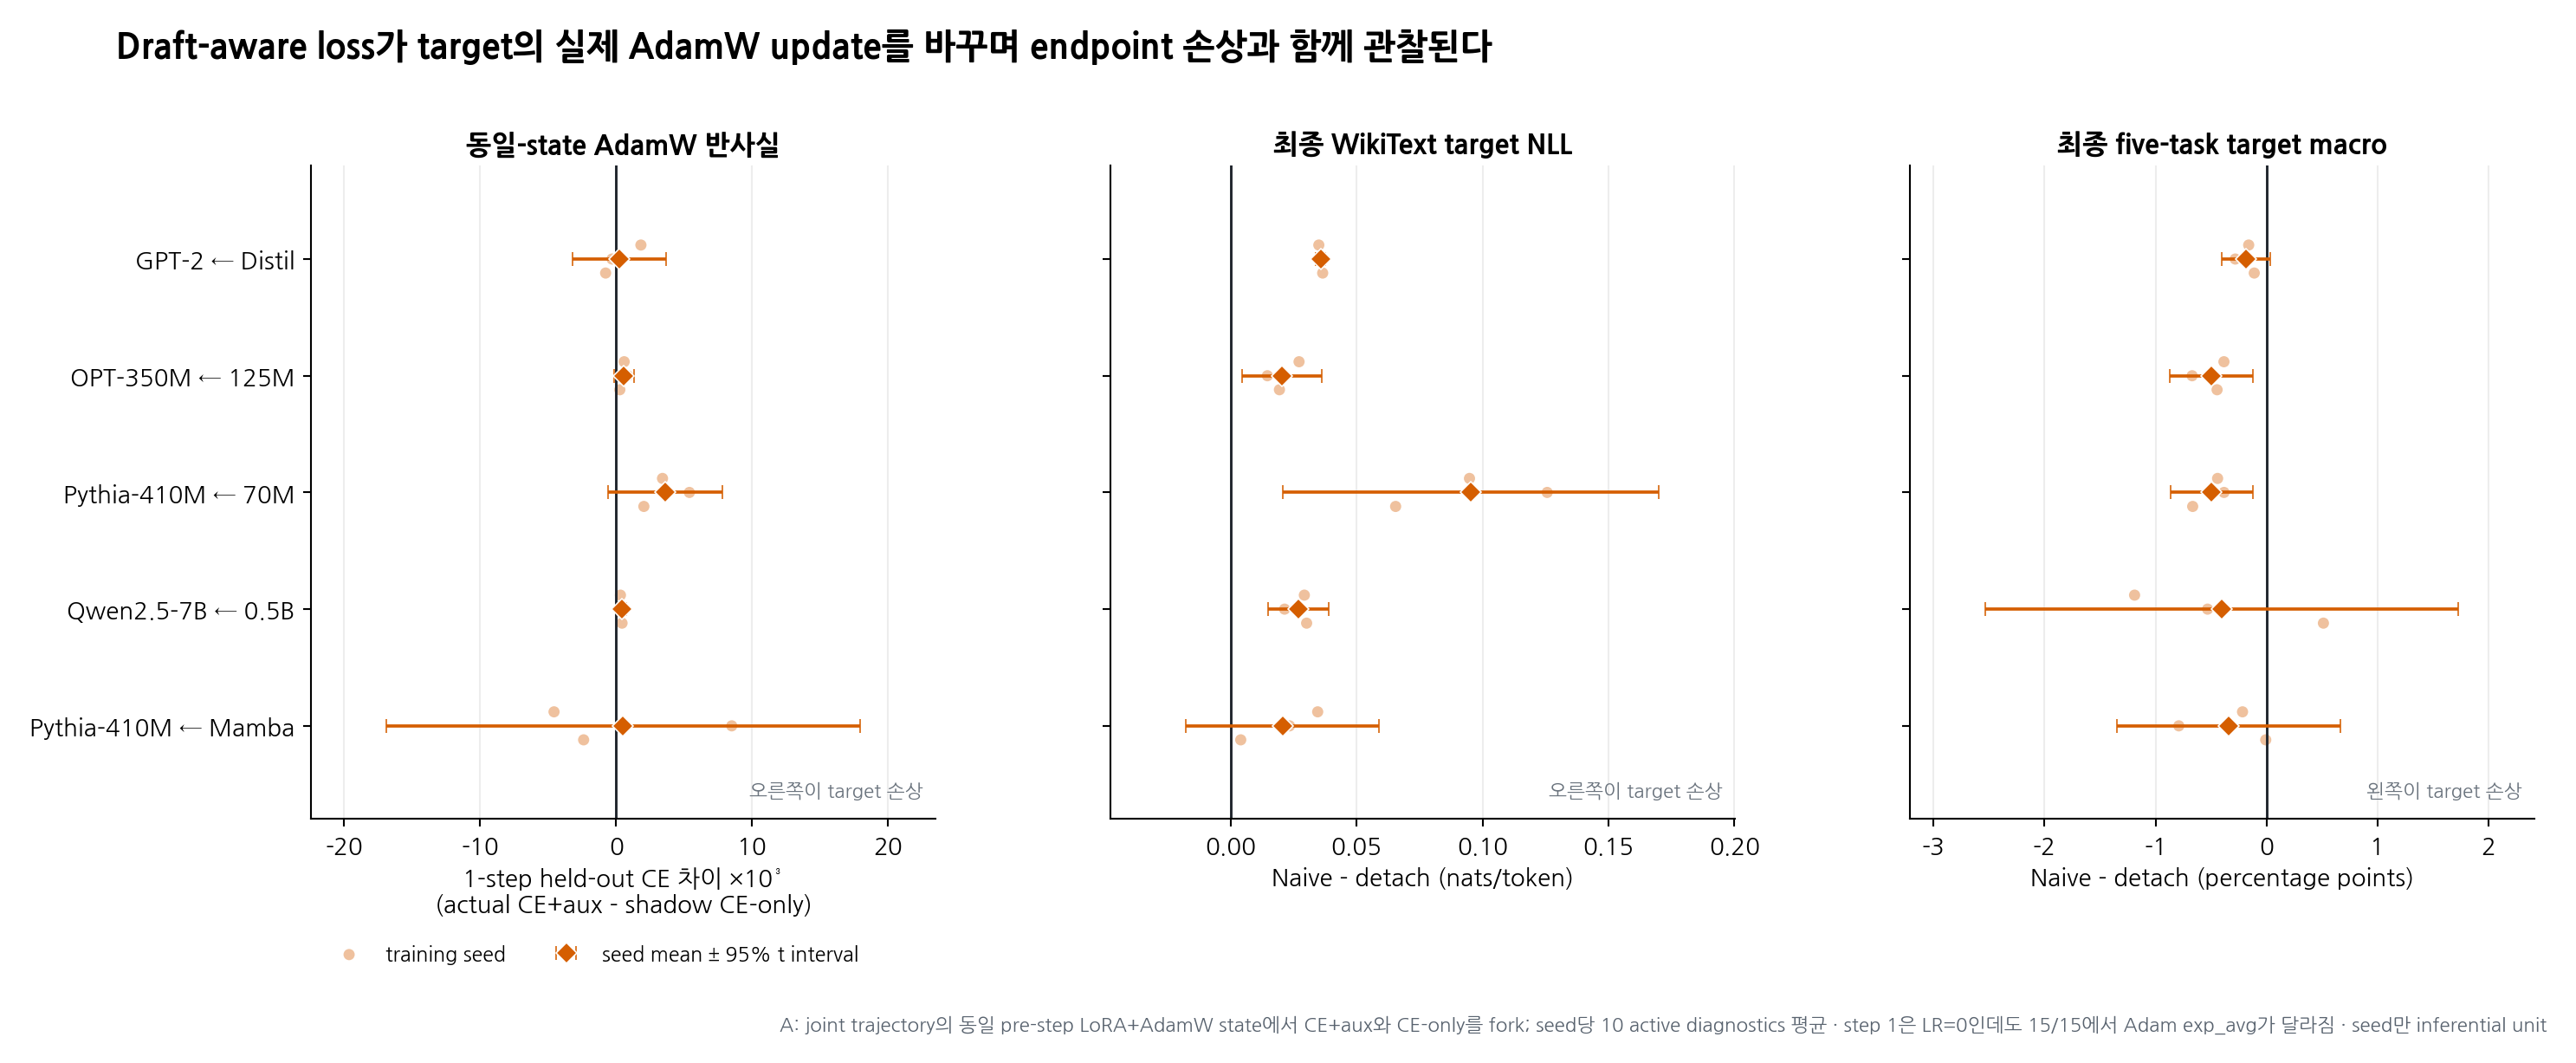
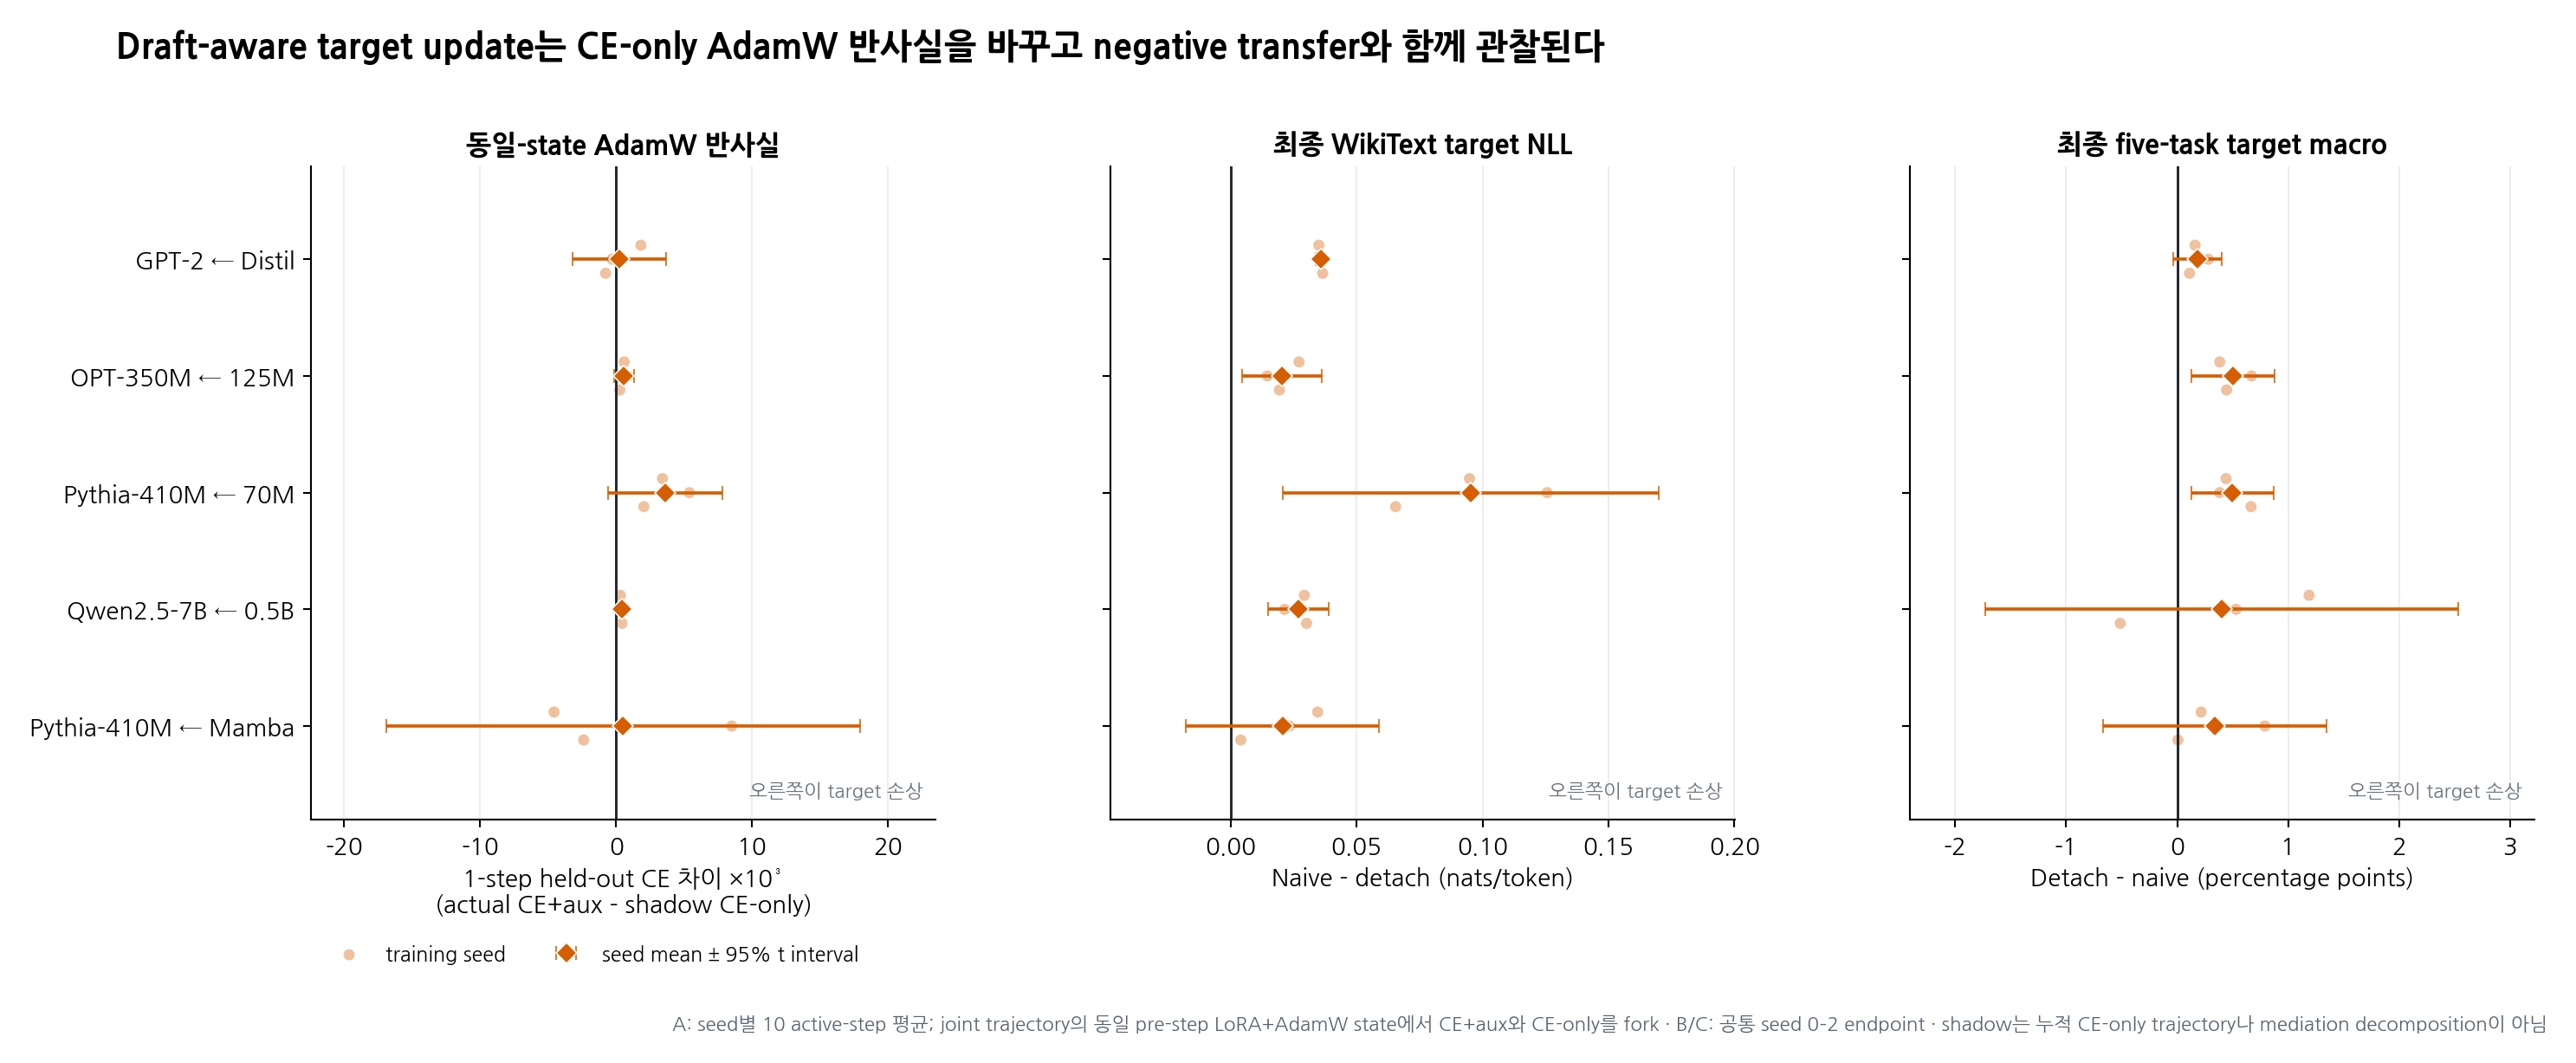
Lead report with full-seed motivation evidence

diff --git a/index.html b/index.html
@@ -3,19 +3,19 @@
 <head>
   <meta charset="utf-8">
   <meta name="viewport" content="width=device-width, initial-scale=1">
-  <meta name="description" content="독립 pretrained AR target과 drafter의 bidirectional joint training에서 draft-aware loss가 target update와 AdamW state를 deflect하는 현상을 총 384개 training run(그중 same-state shadow 15개), 63개 target checkpoint의 full downstream panel로 분석한 한국어 보고서.">
+  <meta name="description" content="독립 pretrained AR target과 drafter의 bidirectional acceptance-loss 공동학습에서 AdamW state deflection과 matched target NLL 21/21, full downstream macro 19/21 seed의 negative transfer를 분석한 한국어 보고서.">
   <meta property="og:type" content="article">
-  <meta property="og:title" content="독립 pretrained target–drafter 공동학습의 target-update interference">
-  <meta property="og:description" content="독립 pretrained AR target과 drafter의 bidirectional joint training에서 draft-aware loss가 target update와 AdamW state를 deflect하는 현상을 총 384개 training run(그중 same-state shadow 15개), 63개 target checkpoint의 full downstream panel로 분석한 한국어 보고서.">
+  <meta property="og:title" content="독립 target–drafter 공동학습의 target 품질 비용">
+  <meta property="og:description" content="독립 pretrained AR target과 drafter의 bidirectional acceptance-loss 공동학습에서 AdamW state deflection과 matched target NLL 21/21, full downstream macro 19/21 seed의 negative transfer를 분석한 한국어 보고서.">
   <meta property="og:url" content="https://bluear7878.github.io/specdec-joint-report/">
-  <meta property="og:image" content="https://bluear7878.github.io/specdec-joint-report/figures/figure_08_target_gradient_shadow.png">
-  <meta property="og:image:alt" content="동일 AdamW state의 target CE+aux 대 CE-only 반사실과 최종 성능 비교">
-  <meta property="og:image:width" content="2974">
-  <meta property="og:image:height" content="1227">
+  <meta property="og:image" content="https://bluear7878.github.io/specdec-joint-report/figures/figure_09_motivation_evidence_chain.png">
+  <meta property="og:image:alt" content="독립 target-drafter 공동학습의 optimizer-state deflection과 전체 21-seed target 품질 비교">
+  <meta property="og:image:width" content="3422">
+  <meta property="og:image:height" content="2057">
   <meta name="twitter:card" content="summary_large_image">
-  <meta name="twitter:image" content="https://bluear7878.github.io/specdec-joint-report/figures/figure_08_target_gradient_shadow.png">
+  <meta name="twitter:image" content="https://bluear7878.github.io/specdec-joint-report/figures/figure_09_motivation_evidence_chain.png">
   <link rel="canonical" href="https://bluear7878.github.io/specdec-joint-report/">
-  <title>독립 pretrained target–drafter 공동학습의 target-update interference</title>
+  <title>독립 target–drafter 공동학습의 target 품질 비용</title>
   <script>
     window.MathJax = {
       tex: {displayMath: [['\\[', '\\]']]},
@@ -207,19 +207,61 @@
   </style>
 </head>
 <body>
-  <main><h1 id="pretrained-targetdrafter-target-update-interference">독립 pretrained target–drafter 공동학습의 target-update interference<a class="headerlink" href="#pretrained-targetdrafter-target-update-interference" title="이 절의 고정 링크">&para;</a></h1>
+  <main><h1 id="targetdrafter-target">독립 target–drafter 공동학습의 target 품질 비용<a class="headerlink" href="#targetdrafter-target" title="이 절의 고정 링크">&para;</a></h1>
 <div class="publication-note">외부 공개용 HTML · 원 실험 artifact와 checkpoint는 공개되지 않음</div>
 
 <blockquote>
-<p>축약 종합 보고서 · 2026-07-15</p>
+<p>Target-update interference under bidirectional acceptance loss · 2026-07-16</p>
 <p>범위: parameter, embedding, hidden state, LM head, adapter, optimizer를 전혀
 공유하지 않는 두 pretrained autoregressive language model</p>
 <p>상태: 짧은 LoRA adaptation에서 얻은 controlled evidence이며 peer-reviewed
 결과가 아님</p>
 </blockquote>
+<h2 id="0">0. 연구 질문과 결론<a class="headerlink" href="#0" title="이 절의 고정 링크">&para;</a></h2>
+<blockquote>
+<p><strong>Acceptance loss의 target-side gradient path를 켜면, CE-only였다면 적용될
+AdamW update와 target 품질이 희생되는가?</strong></p>
+</blockquote>
+<p><strong>시험한 regime에서는 그렇다.</strong> 같은 pretrained checkpoint, seed, minibatch 순서,
+schedule에서 target-side path만 켠 bidirectional arm은 detach arm보다 target NLL이
+<strong>21/21 training seed</strong>, full five-task macro가 <strong>19/21 seed</strong>에서 나빴다. 동시에 같은
+target parameter와 AdamW state를 복제한 current-step fork에서 auxiliary loss가 실제
+update와 optimizer moment를 직접 바꾸는 것도 확인했다.</p>
+<p>이를 편의상 <em>target-gradient contamination</em>이라 부르되, <code>g_CE</code> 자체가 수치적으로
+변조된다는 뜻은 아니다. 코드에서는 <code>g_CE</code>와 <code>g_aux</code>를 별도 <code>autograd.grad</code>로
+계산한다. 오염되는 것은 실제 적용 방향</p>
+<div class="math-block">\[
+g_T=g_{CE}+\beta g_{aux}
+\]</div>
+<p>및 그 방향을 누적하는 optimizer state다.</p>
+<p>핵심 증거는 서로 다른 두 반사실에서 온다.</p>
+<ol>
+<li><strong>누적 결과:</strong> 100-step matched <code>bidirectional − detach</code> 비교에서 NLL은 21/21 seed,
+   downstream macro는 19/21 seed와 5/5 pair 평균에서 악화했다.</li>
+<li><strong>직접 메커니즘:</strong> joint trajectory의 같은 pre-step state에서 <code>CE+aux</code>와 <code>CE-only</code>
+   AdamW step을 fork했다. LR이 0인 첫 step부터 <code>exp_avg</code>가 15/15 run에서 달랐다.
+   Held-out 일차 harm sign은 139/150 active diagnostics, exact one-step harm sign은
+   85/150이었다. Exact contrast를 seed 안에서 평균하면 11/15 seed와 5/5 pair 평균이
+   양수였다. 150 step은 반복 측정이지 독립 표본이 아니다.</li>
+<li><strong>경계:</strong> foundation-model collapse는 아니었다. 모든 naive target은 pretrained
+   initial보다 WikiText NLL이 좋아졌고, 기존 231 diagnostic에서 target CE의 일차
+   descent 방향이 완전히 뒤집힌 경우는 0회였다. 결론은 universal law가 아니라
+   <strong>시험한 regime의 반복적인 target-update interference와 negative transfer</strong>다.</li>
+</ol>
+<p><img alt="독립 target과 drafter의 target-side gradient intervention부터 optimizer-state deflection과 전체 21-seed target 품질 저하까지 연결한 motivation evidence chain" src="figures/figure_09_motivation_evidence_chain.png"></p>
+<p><em>그림 1. 상단은 두 독립 모델과 직접 조작한 target-side gradient path다. A–B는 joint
+optimizer history에 조건부인 current-step probe이고, C–D는 별도의 100-step matched-arm
+endpoint다. 두 가지는 같은 현상을 보완적으로 측정하지만 mediation chain은 아니다.
+모든 endpoint 점은 training seed이며, diamond와 선은 pair별 평균과 descriptive 95%
+Student-t interval이다. 두 endpoint 축은 모두 오른쪽이 target harm이다.</em></p>
+<p>단순히 loss 항을 더하면 합성 gradient가 달라지는 것은 자명하다. 연구 모티베이션은
+그 사실 자체가 아니라, 그 경로가 <strong>독립 모델·여러 architecture pair에서 same-seed
+target 품질을 반복적으로 낮췄고</strong>, 현재의 norm cap도 detach 수준을 완전히 복구하지
+못했다는 데 있다. 즉 개선 목표는 “gradient를 다르게 만들기”가 아니라
+<strong>acceptance gain을 유지하면서 target non-inferiority를 보장하는 update rule</strong>이다.</p>
 <div class="toc">
 <ul>
-<li><a href="#0">0. 결론</a></li>
+<li><a href="#0">0. 연구 질문과 결론</a></li>
 <li><a href="#1-gap">1. 연구 범위와 문헌 gap</a><ul>
 <li><a href="#11">1.1 포함하는 설정</a></li>
 <li><a href="#12">1.2 제외하는 설정</a></li>
@@ -252,42 +294,6 @@
 <li><a href="#8">8. 재현성과 산출물</a></li>
 </ul>
 </div>
-<h2 id="0">0. 결론<a class="headerlink" href="#0" title="이 절의 고정 링크">&para;</a></h2>
-<p>본 연구의 모티베이션은 다음 한 문장이다.</p>
-<blockquote>
-<p><strong>독립 draft model의 acceptance-oriented loss를 target CE와 함께 target에
-미분하면, 별도로 계산된 target CE gradient에 auxiliary gradient가 더해져 실제
-target update와 AdamW state를 deflect하고 target 품질을 낮출 수 있다.</strong></p>
-</blockquote>
-<p>이를 편의상 <em>target-gradient contamination</em>이라 부르되, <code>g_CE</code> 자체가 수치적으로
-변조된다는 뜻은 아니다. 코드에서는 <code>g_CE</code>와 <code>g_aux</code>를 별도 <code>autograd.grad</code>로
-계산한다. 오염되는 것은 실제 적용 방향</p>
-<div class="math-block">\[
-g_T=g_{CE}+\beta g_{aux}
-\]</div>
-<p>및 그 방향을 누적하는 optimizer state다.</p>
-<p>핵심 결과는 세 층으로 나뉜다.</p>
-<ol>
-<li><strong>직접 동일-state AdamW 반사실:</strong> 5 pair × 3 seed의 새 15-run panel에서
-   실제 <code>CE+aux</code> step과 같은 pre-step parameter·AdamW state의 <code>CE-only</code> shadow
-   step을 비교했다. Auxiliary의 held-out CE 일차 효과는 active diagnostic
-   139/150회 불리했다. 실제 one-step held-out CE 차이는 85/150회 불리했고, seed
-   안에서 평균하면 11/15 seed와 5/5 pair 평균이 양수였다. 일차 근사와 exact
-   contrast의 차이를 만드는 곡률·clipping·AdamW 등의 상대 기여는 분해하지 않았다.</li>
-<li><strong>최종 target 품질:</strong> 기존 matched <code>naive − detach</code> target NLL은 5/5 pair,
-   21/21 training seed에서 악화했다. 사전 고정 full five-task macro는 19/21 seed와
-   5/5 pair 평균에서 하락했다.</li>
-<li><strong>경계:</strong> foundation-model collapse는 아니었다. 모든 naive target은 pretrained
-   initial보다 WikiText NLL이 좋아졌고 기존 231 diagnostic에서 target CE의 일차
-   descent 방향이 완전히 뒤집힌 경우는 0회였다. 현상은 항상 같은 크기로 나타나는
-   법칙이 아니라 <strong>반복적인 target-update interference와 broader negative transfer</strong>다.</li>
-</ol>
-<p><img alt="동일 AdamW state의 CE+aux 대 CE-only 반사실과 최종 target NLL 및 downstream macro를 연결한 그림" src="figures/figure_08_target_gradient_shadow.png"></p>
-<p><em>그림 1. 왼쪽은 joint trajectory의 같은 pre-step LoRA parameter와 AdamW state에서
-실제 <code>CE+aux</code> update와 <code>CE-only</code> shadow update를 fork한 뒤 측정한 held-out CE 차이다.
-가운데와 오른쪽은 같은 세 seed의 기존 matched endpoint다. 연한 점은 training seed,
-진한 점과 선은 seed 평균과 descriptive 95% Student-t interval이다. Diagnostic step은
-replicate가 아니며, inference unit은 training seed뿐이다.</em></p>
 <h2 id="1-gap">1. 연구 범위와 문헌 gap<a class="headerlink" href="#1-gap" title="이 절의 고정 링크">&para;</a></h2>
 <h3 id="11">1.1 포함하는 설정<a class="headerlink" href="#11" title="이 절의 고정 링크">&para;</a></h3>
 <p>Target distribution을 <code>p_θ</code>, 독립 drafter를 <code>q_φ</code>라 한다. 둘은 tokenizer-compatible
@@ -316,6 +322,12 @@ endpoint total effect에 포함된다.</p>
 <h3 id="12">1.2 제외하는 설정<a class="headerlink" href="#12" title="이 절의 고정 링크">&para;</a></h3>
 <p>MEDUSA/EAGLE형 shared/native-head 모델은 이 보고서의 실험 범위 밖이다. 해당
 historical 실험은 저장소에 provenance로만 남아 있으며 본 결론의 근거로 섞지 않는다.</p>
+<p>인접 연구인 <a href="https://sergiu-nistor.com/assets/publications/Halfway_Speculative_Decoding.pdf">Halfway Speculative Decoding</a>은
+strong target을 weaker drafter 쪽으로 이동시키면 생성 품질이 저하될 위험을 명시하고,
+target CE regularization과 제한된 training budget을 사용한다. 다만 drafter가 target의
+embedding과 중간 hidden state를 입력으로 받는 EAGLE-3-style head이므로, 이 보고서의
+<strong>두 independent pretrained AR model</strong> 설정에 대한 증거로 세지 않는다. 문제의식은
+인접하지만 실험적 gap은 남아 있다.</p>
 <p>또한 target-side acceptance loss는 exact speculative decoding의 요건이 아니다.
 <a href="https://proceedings.mlr.press/v202/leviathan23a.html">Speculative Decoding</a>은 고정 target의
 분포를 보존하고, <a href="https://openreview.net/forum?id=rsY6J3ZaTF">DistillSpec</a>,
@@ -486,6 +498,11 @@ same-batch CE는 87/150이었다. 이 step 수는 repeated measurement이므로 
 step의 exact CE sign은 자주 달랐다. 곡률, clipping, adaptive moments는 가능한
 contributor이지만 본 panel은 각각을 분리 추정하지 않았다. “negative cosine이면 매
 step loss가 반드시 오른다”는 설명은 자료가 지지하지 않는다.</p>
+<p><img alt="동일 AdamW state의 current-step shadow와 공통 seed endpoint를 pair별로 비교한 상세 그림" src="figures/figure_08_target_gradient_shadow.png"></p>
+<p><em>그림 2. 왼쪽은 seed별 10개 active diagnostic의 평균 <code>H_val</code>, 가운데와 오른쪽은
+shadow panel과 공통인 seed 0–2의 matched endpoint다. 모든 축은 오른쪽이 target
+harm이다. 이 상세 그림은 local probe와 endpoint가 함께 관찰됨을 보이지만 누적
+mediation decomposition은 아니다.</em></p>
 <p>더 직접적인 optimizer-state 증거도 있다. Step 1은 warmup 때문에 target LR이 0이고
 두 branch 모두 parameter update norm이 0이다. 그런데 <code>CE+aux</code>와 <code>CE-only</code>의 Adam
 <code>exp_avg</code>는 <strong>15/15 run에서 이미 달라졌다</strong>. 차이 norm은 actual moment norm의
@@ -549,7 +566,7 @@ M=\frac{HS_{char}+PIQA_{char}
 +(ARC\text{-}E_{char}+ARC\text{-}C_{char})/2+Wino_{raw}}{4}.
 \]</div>
 <p><img alt="다섯 independent target-drafter pair의 full downstream macro contrast" src="figures/figure_06_target_downstream_macro.png"></p>
-<p><em>그림 2. Full target-only macro의 condition−detach contrast. 연한 점은 training seed,
+<p><em>그림 3. Full target-only macro의 condition−detach contrast. 연한 점은 training seed,
 진한 점과 whisker는 pair별 평균과 descriptive 95% t interval이다. Pair를 하나의
 architecture population처럼 pooling하지 않았다.</em></p>
 <table>
@@ -639,7 +656,7 @@ Qwen/Pythia–Mamba에서 실행하지 않았다.</p>
 </ol>
 <h2 id="6-acceptance-trade-off">6. Acceptance와의 trade-off<a class="headerlink" href="#6-acceptance-trade-off" title="이 절의 고정 링크">&para;</a></h2>
 <p><img alt="target NLL과 exact rollout AAL의 condition별 Pareto 비교" src="figures/figure_04_quality_acceptance_pareto.png"></p>
-<p><em>그림 3. Target WikiText NLL과 FP32 exact rollout AAL. Cap은 target 손상을 줄이는 대신
+<p><em>그림 4. Target WikiText NLL과 FP32 exact rollout AAL. Cap은 target 손상을 줄이는 대신
 acceptance gain도 대체로 줄였다. 이 그림은 condition endpoint 요약이며 seed-level
 상관이나 production throughput 추정이 아니다.</em></p>
 <p>Naive는 OPT/Pythia/Qwen/Pythia–Mamba에서 AAL point estimate를 높였지만 GPT에서는
@@ -739,6 +756,6 @@ python scripts/build_public_report.py \
 <code>LD_PRELOAD</code>를 적용해야 한다. Completed root는 덮어쓰지 않으며, 새 분석은 새 versioned
 output에만 쓴다. Model adapter weights는 Git에 저장하지 않고 raw histories, metrics,
 analysis rows, manifests만 version한다.</p></main>
-  <footer>Generated from the audited report · 2026-07-15</footer>
+  <footer>Generated from the audited report · 2026-07-16</footer>
 </body>
 </html>

diff --git a/README.md b/README.md
@@ -3,8 +3,9 @@
 Public HTML version of the Korean research report on target-update interference
 when a draft-aware loss is applied to an independent pretrained AR target.
 
-The streamlined report centers on three audited visuals:
+The streamlined report centers on four audited visuals:
 
+- the intervention-to-outcome motivation chain with all 21 endpoint seeds;
 - the new same-state AdamW `CE+aux` versus `CE-only` shadow experiment;
 - the full five-task target-only downstream contrast;
 - the target-quality versus exact-acceptance trade-off.